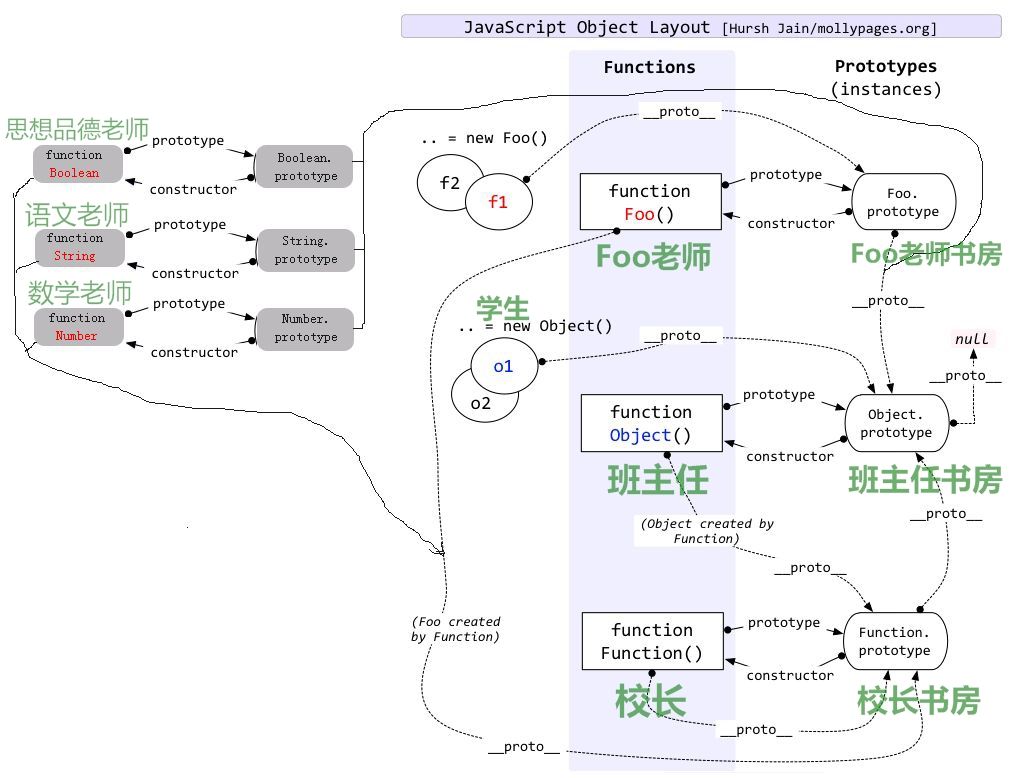
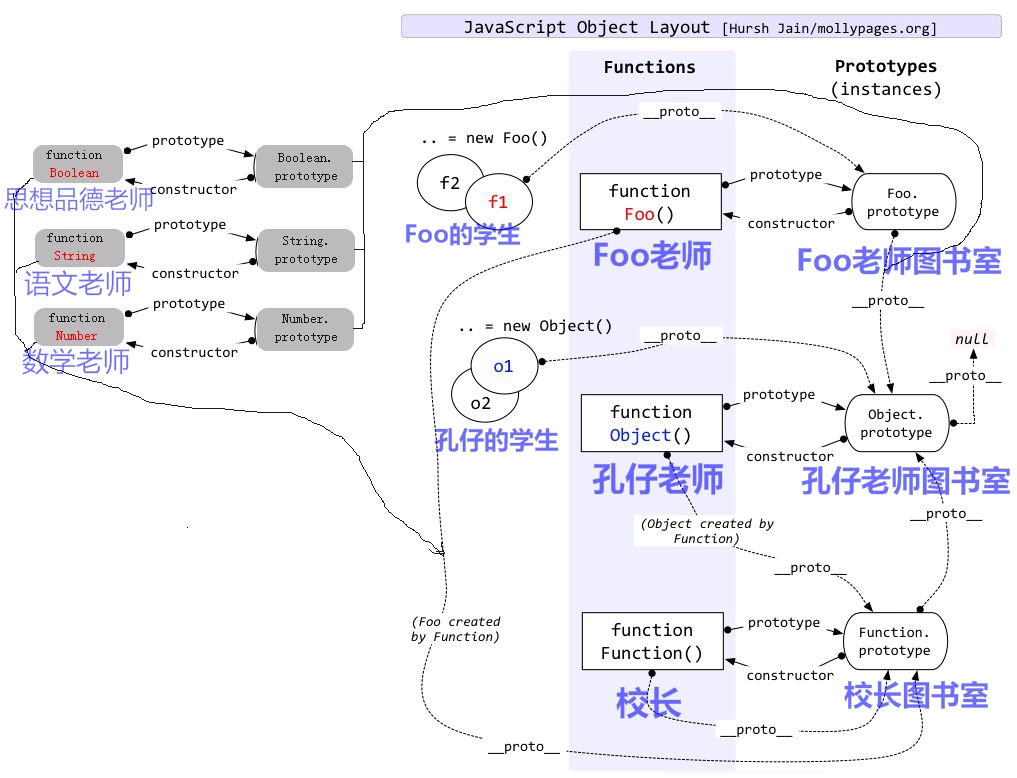
我的校长生涯

diff --git a/README.md b/README.md
@@ -535,11 +535,289 @@ var b = a
 
 这就导致，培养出来的学生没有专长，大多很普通。
 
-终于有一天，我的学校得到许多好心人的[赞助]()，我当时表示~~力度大点~~十分感谢。
+终于有一天，我的学校得到许多好心人的[赞助](https://github.com/best-xiaoqiang/note-sm/blob/master/image/haha.png)，我当时表示~~力度大点~~十分感谢。
 
-钱多了，我就可以养活更多的老师，就是培养起来比较麻烦。
+钱多了，我就可以培养出更多的老师，不同特色的老师又可以培养出不同特色的学生，这不正是我的毕生所追求的东西吗？
+
+于是，我的学校除了孔仔老师，又有了语文老师、数学老师、思想品德老师......
+
+而且我还可以培养更多学科的老师。
+
+#### 阶段三、建设图书室
+
+不知何时开始，有一些老师会找我申请一些教学方法的书，这我是十分支持的，可以说是有求必应。
+
+随着申请的老师越来越多，我总结了一些很多老师会用到的教学方法的书，于是我就想：
+
+不如我在自己办公室旁边建设一个图书室，把这些常用的书放在里面，老师们想看的时候来这里看不就行了。
+
+很快有老师向我反映，他们其实也有相同的困扰，学生也会向他们申请一些课程相关的书，而且经常是相同的。
+
+于是我决定，**只要是老师，都要有一个自己的图书室，存放自己学生通常会用到的书或器材**。
+
+我也是老师，我是老师的老师。
+
+所以，各科老师的图书室一般都存放各自文化知识方面的教材，而我的办公室存放的是教学经验方面的教材。
+
+马上就要开工了！
+
+可是我又发现，像《小学生必读》这类书，几乎在每个老师的办公室都有，我想：
+
+不如把这类全校学生都读的书，放在同一个地方吧，这样就可以省下更多钱~~吃喝玩乐~~建设学校。
+
+我第一想到的，就是孔仔老师，孔仔老师毕竟是我们学校的元老，同时他教的内容是最宽泛的、最不专门的，图书室应该相对空旷，所以就把《小学生必读》这类几乎所有学生都会看的书籍统一放到他的图书室吧。
+
+于是我决定，**在给每个老师建造图书室的同时，都建造一条隧道通往孔仔老师的图书室**。
+
+我的图书室也是那时候建的，所以我的图书室也有一条通往孔仔老师的隧道。
+
+这样，我培养出来的老师，想看教学经验方面的书籍，就可以到我的图书室。
+
+而我校老师培养出来的学生，想看自己学习方面的书籍，就可以到自己老师的图书室；
+
+如果没有的话，就可以通过自己老师的图书室里的隧道，来到孔仔老师的图书室，看有没有想看的书籍。
+
+这样我的学校就完美了，小强校长还是挺不错的哈？
+
+### 原型和原型链
+
+#### javascript的培训方式
+
+在javascript中，`Function`扮演的就是校长的角色。
+
+首先，他不想亲自去培养学生，所以他培养出了第一个老师孔仔。
+
+`Object`就相当于孔仔一样可以培养出学生，即通过`new Object`可以创建对象。
+
+但是，校长为了学生的多样化，又培养了语文老师、数学老师、思想品德老师等老师，而且还可以按需要培养更多老师；
+
+同样，开发者想要创建多样化的数据、符合需要的对象，诸如`String`、`Number`、`Boolean`这些函数对象也必不可少的，而且也可以根据需要写各种构造函数。
+
+可以看到，校长培训出老师，老师再培训出学生；
+
+`Function`创建函数对象，函数对象再创建对象；
+
+只不过javascript的培训方式是`new`。
+
+#### javascript的图书室
+
+校长为了避免给每位老师买教学经验方面的书，所以创建了自己的图书室，用来让自己培养的老师共享这些资源；
+
+而我们的`Function`，也并不想把那些常用的方法都复制一份，保存到`Object`、`String`、`Array`...以及后来新创建的N多构造函数当中，于是新增一个属性prototype（即原型对象），把一些公共的方法存在里面；
+
+`Function`让它创建出来的函数对象共享`prototype`的方式，就是在通过`new Function`创建函数对象的同时，会使
+
+```$xslt
+被创建的函数对象.__proto__ = Function.prototype
+```
+
+比如，在创建`Object`的时候，会使
+```$xslt
+Object.__proto__ = Function.prototype
+```
+
+这个场景似曾相识？
+
+没错，这就是我小强校长在创建自己的图书室后，将图书室钥匙送给孔仔老师一把的情景。
+
+此后，孔仔老师就可以来我的图书室，查阅教学经验相关的书籍。
+
+同理，`Object`也因此可以访问`Function`的`prototype`，使用`Function`为他们精心准备的函数对象的方法。
+
+验证
+
+```$xslt
+Object.__proto__ === Function.prototype     // true
+```
+
+这里的`true`表示的就是，钥匙已拿到，`Object`已拥有`Function`的`prototype`。
+
+##### 接下来，可能会更多用到“拥有”这个词语
+
+为什么呢？
+
+虽然，根据开篇对引用类型的介绍，可知`Object.__proto__ = Function.prototype`所做的事情：
+
+无非就是，`Function`把公共的方法都放在某个房间里，再将钥匙存在自己的属性`prototype`里；
+
+在赋值时，就是复制了一把`prototype`里的钥匙，然后存在`Object`的属性`__proto__`中。
+
+从这个过程可以看出，原型也不过是[引用类型的赋值](https://juejin.im/post/5b583d5c6fb9a04fbe12e434)，就是通过一种联系方式间接拥有某个东西。
+
+本篇文章开始说过，
+
+> 即使是间接拥有，也是拥有。
+
+首先，对引用类型的及其赋值的理解是必要的。
+
+但是，在理解原型和原型链过程中，可以不必太关注引用类型赋值过程这种细节。
+
+因为原型的目的，就是让实例们都**拥有**有一个公共区域，方便使用一些常用的方法。
+
+所以类似`Object.__proto__ === Function.prototype`这种吓人的结构，它要表达的不过就是这个意思：
+
+**前者已经拥有了后者提供的公共区域**。
+
+就像我的校长生涯那样，当我发现建图书室的作用之后，并不止为自己培养的老师建了图书室。
+
+> 只要是老师，都要有一个自己的图书室，存放自己学生通常会用到的书或器材
+
+这样，把一些学生的教材也变成共享，就又免得给每个学生都重复买教材。
+
+也就是，不仅`Function`创建函数对象时，会
+
+```$xslt
+被创建的函数对象.__proto__ = Function.prototype
+```
+
+而且函数对象在创建对象时，会
+
+```$xslt
+被创建的对象.__proto__ = 创建对象的函数对象.prototype
+```
+
+总结一下，只要`new`的时候，就会
+
+```$xslt
+实例.__proto__ = 创建者.prototype
+```
+
+即**只要我创建了你，你就拥有了我的公共区域**。
+
+#### javascript的隧道
+
+回顾我的校长生涯，在我即将开工给我和每位老师建图书室之前，我又想到：
+
+每个老师的图书室里的书，也有很多是重复的，不如把这些重复的都放到元老级教师孔仔的图书室吧。
+
+可是学生只能进各自老师的图书室，怎么让他们也能进孔仔老师的图书室呢？
+
+还记得睿智的小强校长是怎么做的吗：
+
+在建每件图书室的同时，**修一条隧道可以到达孔仔老师的图书室**，即Function创建对象的同时会
+
+```$xslt
+被创建的函数对象.prototype.__proto__ = Object.prototype
+```
+
+例如
+
+```$xslt
+Array.prototype.__proto__ === Object.prototype      // true
+```
+
+没错，对于`javascript`来说，`Object`就是孔仔老师，`Object`的`prototype`就是孔仔老师的图书室。
+
+为了减少不同函数对象的`prototype`的重复，我们把很通用的对象的方法都放到`Object`的`prototype`中，并通过上述方法让其它函数都的prototype都拥有它。
+
+这样，每个对象都拥有函数的`prototype`，每个函数的`prototype`又都拥有`Object`的`prototype`，那么每个对象也都拥有`Object`的`prototype`，即对象总能找到早就给它们精心准备好的方法的；
+
+不同原型之间这个不依不饶的关系，就是原型链。
+
+对于学生来讲，他们可以去的办公的总和、以及先后顺序，就相当于我们的原型链。
+
+关于“隧道”的建成，还有一些重要问题：
+
+实际上，`被创建的函数对象.prototype.__proto__ = Object.prototype`，并非Function做到的，而是Object做到的。
+
+这里，`Object`其实是使用的这一规则：
+
+> 只要我创建了你，你就拥有了我的公共区域
+
+因为javascript的创建方式是`new`，要想实现`被创建的函数对象.prototype.__proto__ = Object.prototype`，需要先有
+
+```$xslt
+被创建的函数对象.prototype = new Object()
+```
+
+即所有对象的`prototype`都是`Object`创建的，都是`Object`的实例。
+
+其它函数对象的`prototype`因此才能拥有`Object`的`prototype`，即实现这种效果
+
+```$xslt
+被创建的函数对象.prototype.__proto__ = Object.prototype
+```
+
+那么，如果你是类比我的校长生涯来理解原型的，你就会想：
+
+new在故事中不是“培训”的意思吗，这是不是说，其它的图书室都是孔仔“培训”出来的？
+
+其实，这里我们~~自圆其说~~灵活理解就行了，毕竟例子只是用来帮助理解的。
+
+所以，我们的“new”在这时候就是“创建”的意思。
+
+在javascript中，所有对象的`prototype`都是`Object`创建的，那么
+
+在我的校长生涯中，故事可能就是这样的：
+
+#### 我的校长生涯后记
+
+这个时刻，学校还只是我（小强校长）和孔仔两个人。
+
+我说，孔仔，为了实现资源的共享，我有一个想法。
+
+孔仔说，啥想法？
+
+我说，把你培养出来后，我已经很累了，但是我们这个学校将来肯定会得到好心人的[捐助](https://github.com/best-xiaoqiang/note-sm/blob/master/image/haha.png)，也一定会培养更多的老师，老师们也一定需要教学经验方面的学习素材。如果每人我都发一套的话，就有点贵。所以我想给自己建造一个图书室，专门放这些资料，这样不管是你，还是以后培养出来的老师，就都可以在这里共享这些资源了。你觉得怎样，孔仔？
+
+孔仔说，小强校长真~~抠门~~英明啊！您看这样如何，每个老师也都建设一个自己的图书室，这样，很多给学生的教材就不用重复买了，他们想用想看的时候去老师的图书室里找就行了，更省钱。
+
+我说，只给学生们开一个图书室不可以吗，每个老师都有图书室会不会浪费？
+
+孔仔说，不太好吧，毕竟不同学科的学生，使用教材的差异还是挺大的，不是很通用，还是建议每个老师都有各自的图书室，方便管理。
+
+我说，有道理，但是总有一些通用的教材，比如《小学生必读》这种，没必要每个老师的图书室里都放一套，不够省钱。
+
+孔仔说，您的意思是？
+
+我说，放你那里吧。
+
+孔仔已经跟不上我的思路，问，其他老师的学生都是去各自老师的图书室啊，这样只有我的学生能看到《小学生必读》这类书吧？
+
+我说，这还不简单，每个老师的图书室都修一条隧道通向你的图书室。
+
+孔仔沉默。
+
+我说，修图书室的事情，就由你来负责吧！先给本校长来一个图书室吧。
+
+孔仔说，不能，我要先给自己修建一个图书室，否则给你修建的时候不知道隧道通向哪里。
+
+我说，好吧。
+
+从此，每当我培养出一个老师，孔仔就帮忙修建一个图书室，同时挖一条隧道通往他自己的图书室。
+
+我们的学校也越来越好。
+
+### 其它你可能关心的事项
+
+* **Function.prototype.__proto __ === Object.prototype ？**
+
+对。建设每个图书室的时候，孔仔都挖隧道通向自己的办公室了，包括校长的办公室。
+
+* **Function.prototype.__proto === null ？**
+
+对。我们说好把通用资源都放在孔仔办公室，如今已经来到孔仔办公室，还想去哪里？
+
+* **先有的Function还是先有的Object？**
+
+先有的Function。孔仔是我培养出来的，当然是先有的本校长。
+
+* **先有的Function.prototype还是先有的Object.prototype？**
+
+先有的Object.prototype。不然孔仔修建图书室的时候，怎么知道把隧道通向哪里。
+
+* **constructor是什么？**
+
+原型的constructor放的是该原型所属的函数对象，即每个图书室里都放在该图书室所属老师的联系方式，比如电话号码。
+
+
+如果你有其它关心的事项，可以发表评论或者[联系我](https://github.com/best-xiaoqiang/note-sm/blob/master/image/lala.png)。
+
+[原文链接](https://github.com/best-xiaoqiang/note-sm/blob/master/README.md)
 
 
 
 
-[点击查看此文章的最新版本和全部内容](https://github.com/best-xiaoqiang/note-sm/blob/master/README.md)
+
+
+
